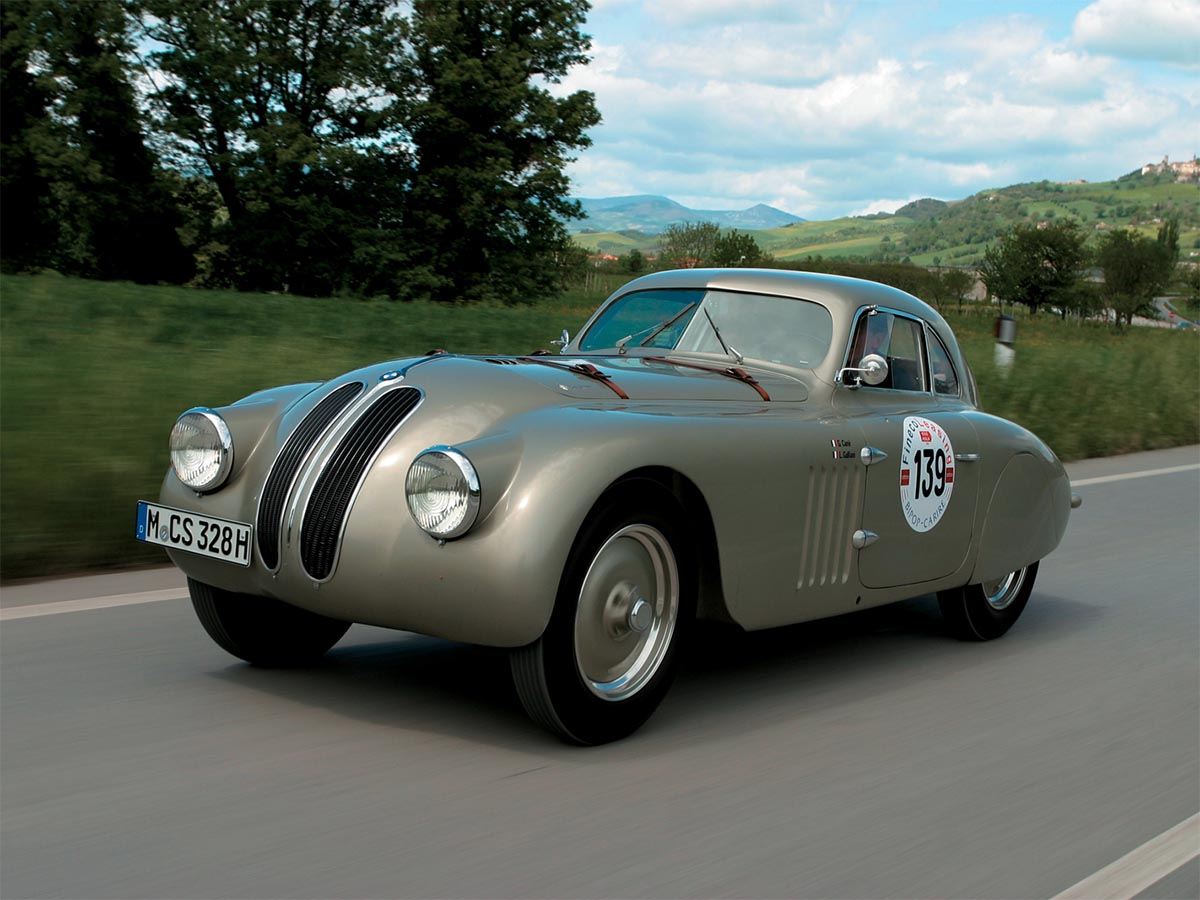
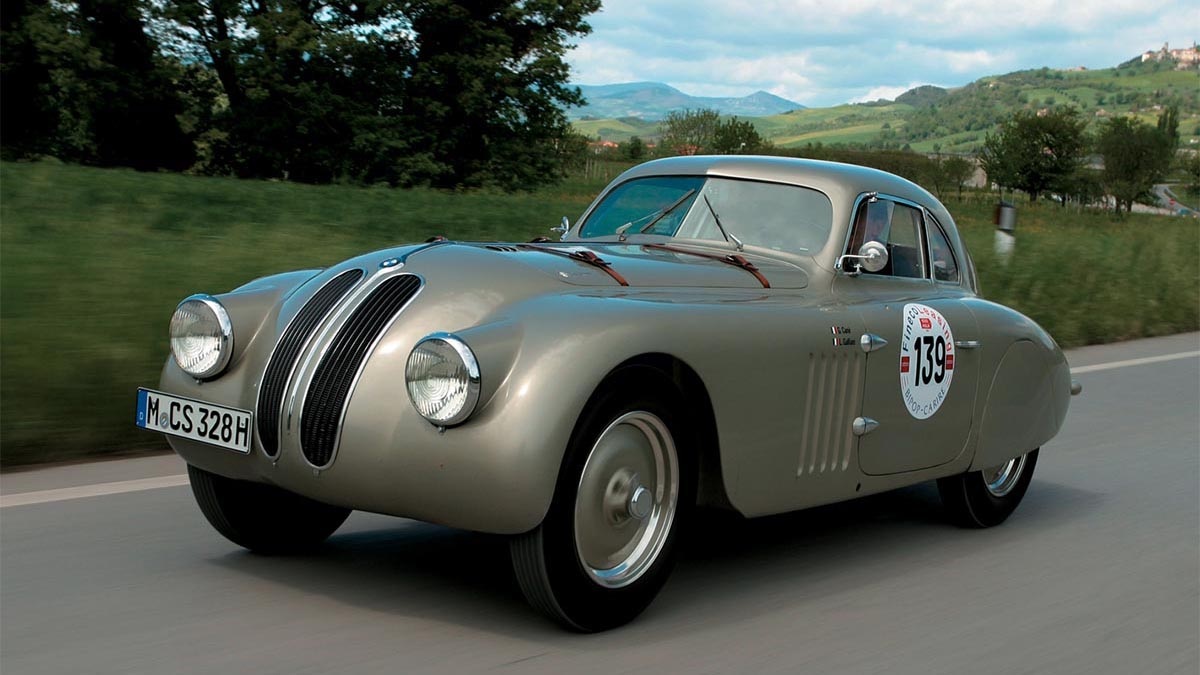
carousel working

diff --git a/script.js b/script.js
@@ -6,26 +6,32 @@ $(function(){
 		return $(window).width() * 0.9;
 	};
 
-	var ulLength = ulWidth() * imageList;
-	var topImageHeight = $('#carousel img').height() / 2;
+	var ulLength = function() {
+		return ulWidth() * imageList;
+	};
+
+	
+	var topImageHeight = function() {
+		return $('#carousel img').height() / 2.2;
+	};
+
+	
 
 console.log(topImageHeight);
 
-	$('#carousel').css({width: ulWidth});
-	$('#carousel ul').css({width: ulLength});
-	$('#carousel li').css({width: ulWidth});
-	$('#controls').css({width: ulWidth});
-	$('#controls').css({top: topImageHeight});
+	$('#carousel').css({width: ulWidth()});
+	$('#carousel ul').css({width: ulLength()});
+	$('#carousel li').css({width: ulWidth()});
+	$('#controls').css({width: ulWidth()});
+	$('#controls').css({top: topImageHeight()});
 
 	$(window).resize(function(){
-		var ulWidth1 = $(window).width() * 0.9;
-		var ulLength1 = ulWidth1 * imageList;
-		var topImageHeight1 = $('#carousel img').height() / 2;
-		$('#carousel').css({width: ulWidth1});
-		$('#carousel ul').css({width: ulLength1});
-		$('#carousel li').css({width: ulWidth1});
-		$('#controls').css({width: ulWidth1});
-		$('#controls').css({top: topImageHeight1});
+		
+		$('#carousel').css({width: ulWidth()});
+		$('#carousel ul').css({width: ulLength()});
+		$('#carousel li').css({width: ulWidth()});
+		$('#controls').css({width: ulWidth()});
+		$('#controls').css({top: topImageHeight()});
 	});
 
 	console.log($(window).width());
@@ -35,12 +41,35 @@ console.log(topImageHeight);
 
 $(function(){
 
-	setInterval(function(){
+	var startSlide = setInterval(function() {slideShow()}, 8000);
+
+	function slideShow() {
 		$("#carousel ul").animate({marginLeft:-$('#carousel li').width()},500,function(){
 			$(this).find("li:last").after($(this).find("li:first"));
 			$(this).css({marginLeft:0});
 		})
-	}, 5000);
+	};
 
-})
+	$('#arrowLeft').click(function() {
+		$("#carousel ul").animate({marginLeft:-$('#carousel li').width()},500,function(){
+			$(this).find("li:last").after($(this).find("li:first"));
+			$(this).css({marginLeft:0});
+		})
+	});
+		
+
+	$('#arrowRight').click(function() {
+		
+		$("#carousel ul").find("li:first").before($(this).find("li:last"));
+		$("#carousel ul").animate({marginRight: -$('#carousel li').width()}, 500, function(){
+			$("#carousel ul").find("li:first").before($(this).find("li:last"));
+			$(this).css({marginRight: 0});
+
+		})
+	})
+
+
+
+
+});
 

diff --git a/style.css b/style.css
@@ -1,22 +1,21 @@
 #carousel {
   margin: 0 auto;
   max-width: 1200px;
-  max-height: 900px;
+  max-height: 675px;
   overflow: hidden; }
-  #carousel .carouselList {
-    width: 6000px; }
-    #carousel .carouselList li {
-      max-width: 1200px;
-      max-height: 900px;
-      float: left; }
-      #carousel .carouselList li img {
-        width: 100%;
-        height: auto; }
+  #carousel .carouselList li {
+    max-width: 1200px;
+    max-height: 675px;
+    float: left; }
+    #carousel .carouselList li img {
+      width: 100%;
+      height: auto; }
 
 #controls {
   position: absolute;
   top: 0;
   line-height: 50%;
+  max-width: 1200px;
   height: 50px;
   display: flex;
   justify-content: space-between; }
@@ -25,11 +24,16 @@
     background-color: rgba(100, 0, 0, 0.5);
     width: 50px;
     text-align: center; }
+    #controls div:hover {
+      background-color: rgba(100, 0, 0, 0.8); }
     #controls div i {
       font-size: 40px;
       line-height: 50px; }
   #controls #arrowLeft {
-    border-bottom-right-radius: 5px;
-    border-top-right-radius: 5px; }
+    border-bottom-right-radius: 10px;
+    border-top-right-radius: 10px; }
+  #controls #arrowRight {
+    border-bottom-left-radius: 10px;
+    border-top-left-radius: 10px; }
 
 /*# sourceMappingURL=style.css.map */

diff --git a/style.sass b/style.sass
@@ -1,15 +1,15 @@
 #carousel
 	margin: 0 auto
 	max-width: 1200px
-	max-height: 900px
+	max-height: 675px
 	overflow: hidden
 
 	.carouselList
-		width: 6000px
+
 
 		li
 			max-width: 1200px
-			max-height: 900px
+			max-height: 675px
 			float: left
 
 			img
@@ -20,7 +20,7 @@
 	position: absolute
 	top: 0
 	line-height: 50%
-	
+	max-width: 1200px
 	height: 50px
 	display: flex
 	justify-content: space-between
@@ -31,10 +31,17 @@
 		width: 50px
 		text-align: center
 
+		&:hover
+			background-color: rgba(100, 0, 0, 0.8)
+
 		i
 			font-size: 40px
 			line-height: 50px
 
 	#arrowLeft
-		border-bottom-right-radius: 5px
-		border-top-right-radius: 5px
+		border-bottom-right-radius: 10px
+		border-top-right-radius: 10px
+
+	#arrowRight
+		border-bottom-left-radius: 10px
+		border-top-left-radius: 10px
